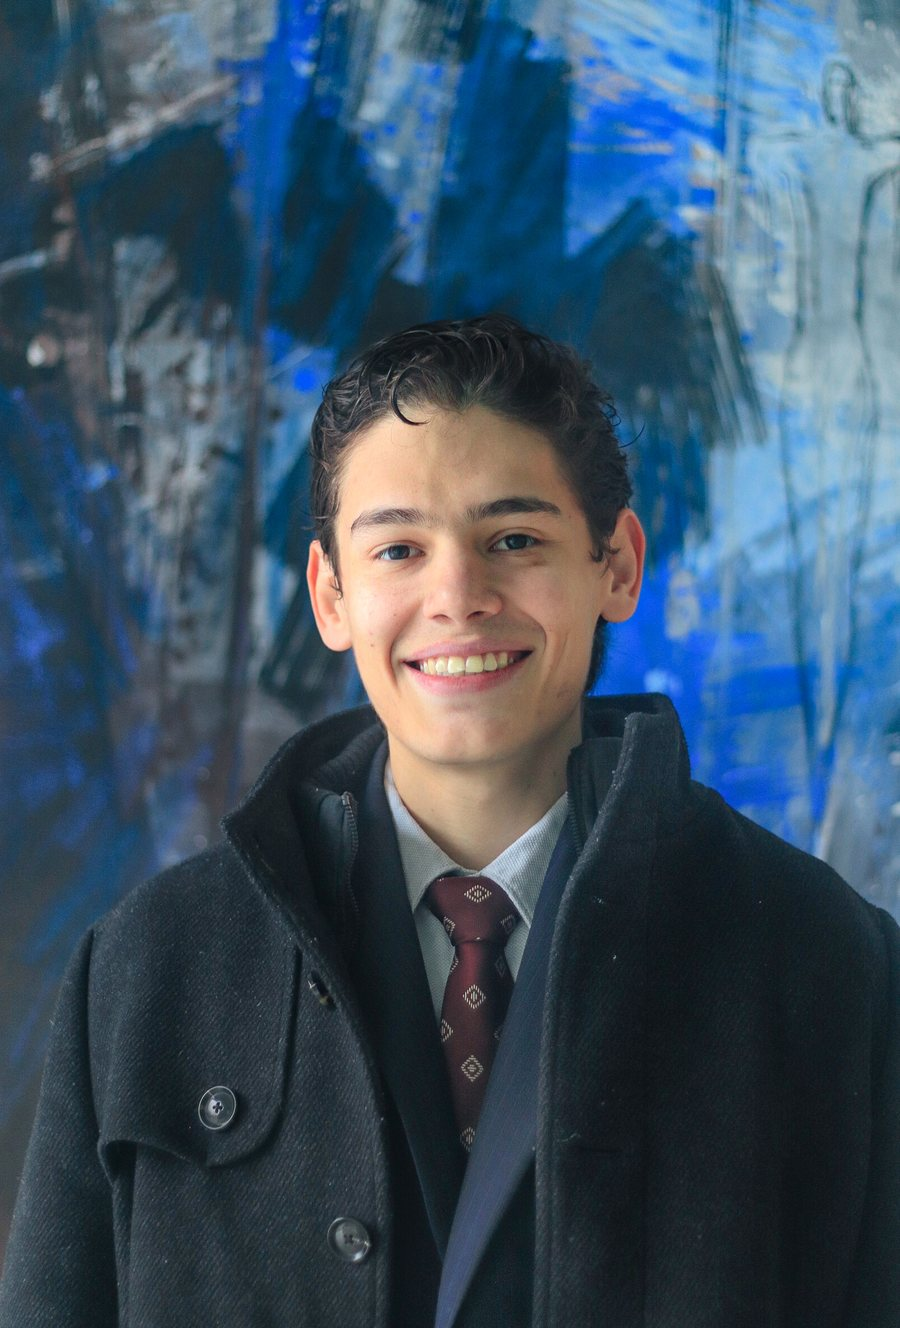
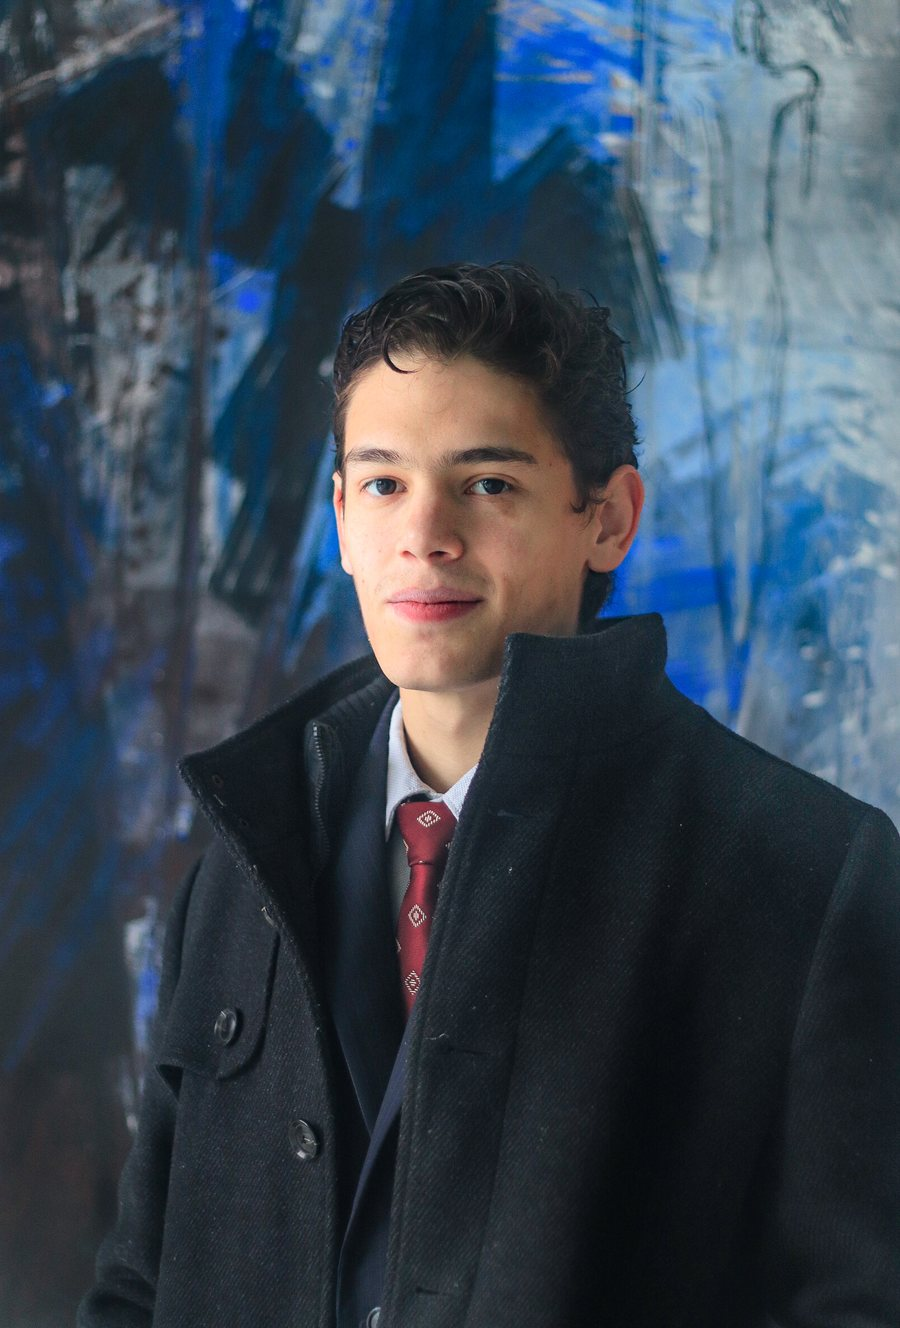
Update hero and About photos, say the BA is finished, add sitemap (#3)
- Home hero uses IMG_2629 and the About portrait uses IMG_2585, the two
  portraits Giancarlo picked.
- About bio and meta description: the BA in International Business is
  finished ("with a BA ... from Constructor University").
- robots.txt and sitemap.xml for the portfolio pages and /links.

diff --git a/content/about.ts b/content/about.ts
@@ -32,13 +32,13 @@ export const aboutContent = {
   meta: {
     title: "About · Giancarlo Peysack",
     description:
-      "Product builder in Madrid, finishing a BA in International Business. Founder of MarketOpsIQ, co-founder of Genzi, maker of Lexfall, Zharo and CampusMart.",
+      "Product builder in Madrid with a BA in International Business. Founder of MarketOpsIQ, co-founder of Genzi, maker of Lexfall, Zharo and CampusMart.",
   },
 
   hero: {
     label: "About me",
     paragraphs: [
-      "I'm a product builder based in Madrid, finishing a BA in International Business at Constructor University. Before that I studied international relations in Nicaragua and Costa Rica, and I work in English, Spanish and German.",
+      "I'm a product builder based in Madrid, with a BA in International Business from Constructor University. Before that I studied international relations in Nicaragua and Costa Rica, and I work in English, Spanish and German.",
       "Since 2022 I've built products from zero: a music social app, a field-ops platform for CPG brands with paying pilots, a vocabulary app, a LinkedIn extension and a campus marketplace. Now I'm looking for a product manager role where I can keep shipping what customers need.",
     ],
     portrait: { src: "/portfolio/me/about.jpg", alt: "Portrait of Giancarlo Peysack" },

diff --git a/app/sitemap.ts b/app/sitemap.ts
@@ -1,0 +1,18 @@
+import type { MetadataRoute } from "next";
+import { projectsIndex } from "@/content/projects";
+
+const SITE = "https://giancarlopeysack.com";
+
+// The portfolio pages and the link-in-bio page. The form pages (/pilot,
+// /sponsor, /waitlist/*) are left out: visitors reach them from /links.
+export default function sitemap(): MetadataRoute.Sitemap {
+  const paths = [
+    "/",
+    "/projects",
+    ...projectsIndex.order.map((slug) => `/projects/${slug}`),
+    "/about",
+    "/contact",
+    "/links",
+  ];
+  return paths.map((path) => ({ url: `${SITE}${path === "/" ? "" : path}` }));
+}

diff --git a/app/robots.ts b/app/robots.ts
@@ -1,0 +1,8 @@
+import type { MetadataRoute } from "next";
+
+export default function robots(): MetadataRoute.Robots {
+  return {
+    rules: { userAgent: "*", allow: "/", disallow: "/api/" },
+    sitemap: "https://giancarlopeysack.com/sitemap.xml",
+  };
+}

diff --git a/PROJECT.md b/PROJECT.md
@@ -206,16 +206,17 @@ RESEND_API_KEY    ← sign up at resend.com, copy from API Keys, add to Vercel, 
 - [x] Firebase project + Firestore + security rules
 - [x] Mobile-specific font size + tile rotation tuning
 - [x] Click-to-zoom avatar, hover deck animation, tooltip stacking fix
-- [x] /api/notify route wired into all 4 forms (awaiting RESEND_API_KEY)
+- [x] /api/notify route wired into all 4 forms and the portfolio contact form (awaiting RESEND_API_KEY)
+- [x] robots.txt and sitemap.xml (`app/robots.ts`, `app/sitemap.ts`)
 
 ## TODO / OPEN DECISIONS
 
-- [x] **Portfolio stage 1: exact copy** of the Julian template, verified against the original at every breakpoint (2026-09-18). Not committed or deployed yet.
-- [x] **Portfolio stage 2: personalize** (2026-09-18). Not committed or deployed yet; review locally first.
+- [x] **Portfolio stage 1: exact copy** of the Julian template, verified against the original at every breakpoint (2026-09-18).
+- [x] **Portfolio stage 2: personalize** (2026-09-18). Launched on giancarlopeysack.com the same day (PR #2).
 - [ ] **Sixth project**: Giancarlo will send one more (a website he built). Add it to `content/projects.ts` (order + card + case study) and build its images with `tools/build_images.py`.
 - [ ] **Refresh early numbers** as they grow: Lexfall's first-month App Store Connect figures (2.17K impressions, 33 first downloads, 4 subscription starts, ~11% download-to-paid by day 14) and Genzi's TikTok stats (~1.5K followers, 36K likes, top video 100K views from April 2022).
 - [ ] **Optional**: a handwritten signature image for the About hero (`aboutContent.hero.signature`), TikTok/Instagram links once live.
-- [ ] **Social bio links:** once the portfolio is live, decide whether LinkedIn/TikTok/Instagram bios should point to `/` (portfolio) or `/links` (link-in-bio).
+- [x] **Social bio links:** Instagram and TikTok bios point to `/links` (quick taps, sponsor and pilot CTAs, a link to the portfolio); LinkedIn and the CV point to `/` (the portfolio).
 - [ ] **Add RESEND_API_KEY** in Vercel so form submissions email you (currently they only land in Firestore).
 - [ ] **Name the two AI tools.** "Riff" and "Atom" were rejected (riff.ai + getriff.co + atom.com/Squadhelp conflicts). Pick names with a free .com and clean trademark in software classes 9 & 42. Tooltips + mailto subjects + the homepage "AI tools" line update when chosen.
 - [ ] **Social URLs:** TikTok and Instagram links in `LINKS` (app/links/page.tsx) are still `#`. LinkedIn + Substack are real.
